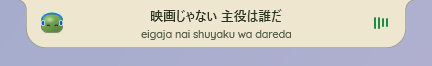
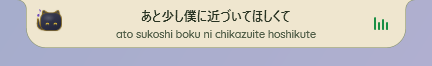
docs(readme): refresh screenshots and clips, add Kuro Night captures and mascot-switch GIF
Recapture all live stills (Default, Matcha, Kuro Night with Kuro) and the hover, tour, theme and mascot clips. Capture scripts: ffmpeg from PATH, scroll the quick-settings panel before clicking theme radios, retry opening quick settings, and blur the integration status line in the quick-settings clips.

diff --git a/README.md b/README.md
@@ -51,15 +51,15 @@ Four themes, `Default` (dark), `Hojicha` (warm roasted-tea brown with a caramel 
 
 ## Screenshots
 
-![Switching from the Default theme to Matcha and back](docs/media/theme-switch.gif)
+![Switching from Default to Matcha, then Kuro Night, and back to Default](docs/media/theme-switch.gif)
 
-| Default | Matcha |
-| --- | --- |
-| ![Stats card, Default theme](docs/images/live/stats-default.png) | ![Stats card, Matcha theme](docs/images/live/stats-matcha.png) |
-| ![Media card with lyrics, Default theme](docs/images/live/media-default.png) | ![Media card with lyrics, Matcha theme](docs/images/live/media-matcha.png) |
-| ![FX Rates card, Default theme](docs/images/live/fx-default.png) | ![FX Rates card, Matcha theme](docs/images/live/fx-matcha.png) |
-| ![Weather card, Default theme](docs/images/live/weather-default.png) | ![Weather card, Matcha theme](docs/images/live/weather-matcha.png) |
-| ![Prayer times card, Default theme](docs/images/live/prayer-default.png) | ![Prayer times card, Matcha theme](docs/images/live/prayer-matcha.png) |
+| Default | Matcha | Kuro Night |
+| --- | --- | --- |
+| ![Stats card, Default theme](docs/images/live/stats-default.png) | ![Stats card, Matcha theme](docs/images/live/stats-matcha.png) | ![Stats card, Kuro Night theme with Kuro](docs/images/live/stats-kuro-night-kuro.png) |
+| ![Media card with lyrics, Default theme](docs/images/live/media-default.png) | ![Media card with lyrics, Matcha theme](docs/images/live/media-matcha.png) | ![Media card with lyrics, Kuro Night theme with Kuro](docs/images/live/media-kuro-night-kuro.png) |
+| ![FX Rates card, Default theme](docs/images/live/fx-default.png) | ![FX Rates card, Matcha theme](docs/images/live/fx-matcha.png) | ![FX Rates card, Kuro Night theme with Kuro](docs/images/live/fx-kuro-night-kuro.png) |
+| ![Weather card, Default theme](docs/images/live/weather-default.png) | ![Weather card, Matcha theme](docs/images/live/weather-matcha.png) | ![Weather card, Kuro Night theme with Kuro](docs/images/live/weather-kuro-night-kuro.png) |
+| ![Prayer times card, Default theme](docs/images/live/prayer-default.png) | ![Prayer times card, Matcha theme](docs/images/live/prayer-matcha.png) | ![Prayer times card, Kuro Night theme with Kuro](docs/images/live/prayer-kuro-night-kuro.png) |
 
 <table>
   <tr>
@@ -74,16 +74,31 @@ Four themes, `Default` (dark), `Hojicha` (warm roasted-tea brown with a caramel 
   </tr>
 </table>
 
-The compact capsule in both themes, here showing the current song:
+The compact capsule in the Default, Matcha and Kuro Night themes, here showing the current song:
 
 ![Compact capsule, Default theme](docs/images/live/capsule-media-default.png)
 ![Compact capsule, Matcha theme](docs/images/live/capsule-media-matcha.png)
+![Compact capsule, Kuro Night theme](docs/images/live/capsule-media-kuro-night-kuro.png)
 
 Mochi's faces, in both themes ([what makes each one appear](docs/USER_GUIDE.md#mochis-faces)):
 
 ![Mochi's moods on the Default dark theme](docs/images/mochi-moods-default.png)
 
 ![Mochi's moods on the Matcha theme](docs/images/mochi-moods-matcha.png)
+
+Pick another mascot in Settings > Mascot: Kuro, a black electric cat (at home on the Kuro Night theme), or Shiro, a white cat:
+
+![Kuro's moods on the Kuro Night theme](docs/images/mochi-moods-kuro.png)
+
+![Shiro's moods on the Default dark theme](docs/images/mochi-moods-shiro.png)
+
+Changing the mascot in quick settings spins Mochi into Kuro, Shiro and back:
+
+![Mochi turning into Kuro and Shiro on the Kuro Night theme, then back to Mochi](docs/media/mascot-switch.gif)
+
+Every mascot works on every theme:
+
+![Mochi, Matcha Mochi, Hojicha Mochi, Kuro and Shiro on the Default, Hojicha, Kuro Night and Matcha themes](docs/images/mascots-on-themes.png)
 
 ## Requirements
 

diff --git a/docs/images/README.md b/docs/images/README.md
@@ -1,7 +1,8 @@
 # README images
 
 - `mochi-icon.png`: 512 px render of the current Mochi, also the source of `MochiDock/icon.ico`. Regenerate both with `pwsh -NoProfile -STA -File tools/make-icon.ps1` after a Release build.
-- `mochi-moods-*.png`: the labelled face grids (`moods-grid-default.png` / `moods-grid-matcha.png`) from `tools/verify/verify-mascot.ps1` (`MochiDock/obj/mascot`), copied here. Drawn by the real mascot control, not captured; the same faces on both themes plus one frame of the face-change spin.
+- `mochi-moods-*.png`: the labelled face grids from `tools/verify/verify-mascot.ps1` (`MochiDock/obj/mascot`), copied here: `moods-grid-default.png` / `moods-grid-matcha.png` as `mochi-moods-default.png` / `mochi-moods-matcha.png`, `moods-kuro.png` as `mochi-moods-kuro.png` and `moods-shiro.png` as `mochi-moods-shiro.png`.
+- `mascots-on-themes.png`: every mascot (Mochi, Matcha Mochi, Hojicha Mochi, Kuro, Shiro) on every theme ground, from the same harness. Drawn by the real mascot control, not captured; the same faces on both themes plus one frame of the face-change spin.
 - `social-preview.png`: the 1280 x 640 card GitHub shows when the repository link is shared. Regenerate with `pwsh -NoProfile -STA -File tools/make-social-preview.ps1` after a Release build, then upload it by hand in the repository's Settings > General > Social preview (GitHub has no API for it).
 - `live/<card>-<theme>.png` (and `live/<card>-<theme>-<mascot>.png`): captures of the running dock in any theme (Default, Hojicha, Kuro Night, Matcha) and, optionally, with a chosen mascot. See below.
 - `../media/*.gif`: recordings of the running dock (hover expand, card tour, theme switch, mascot switch).
